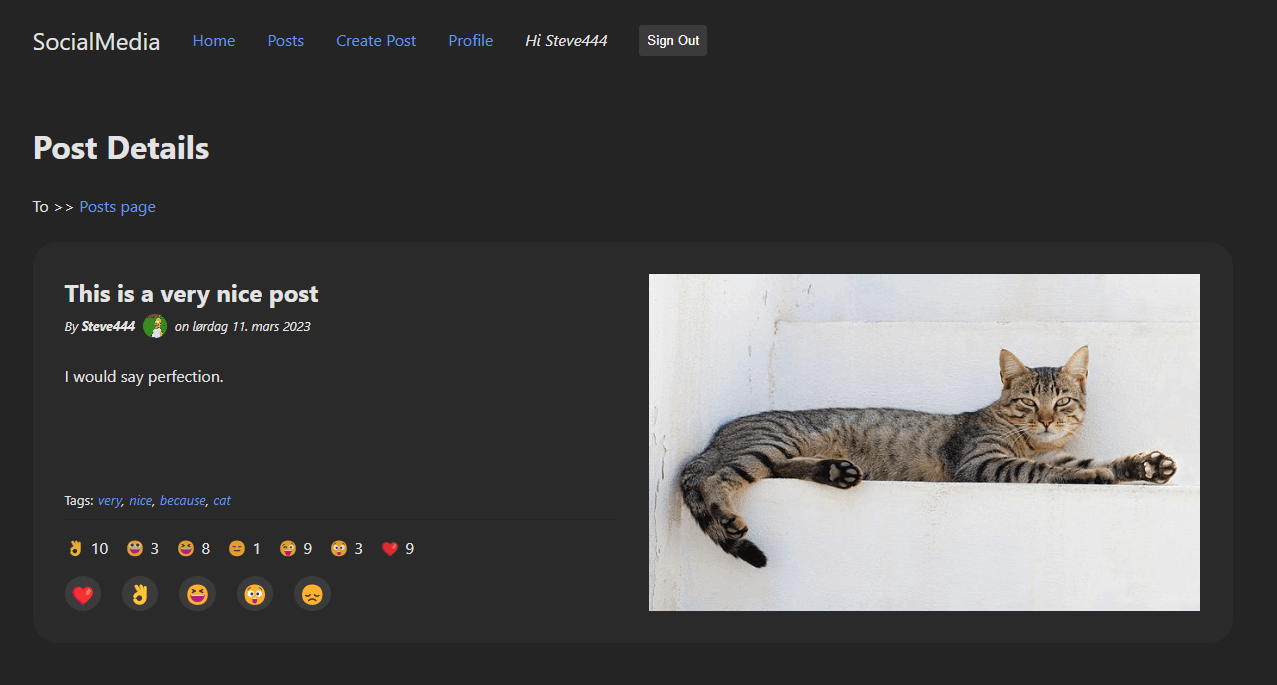
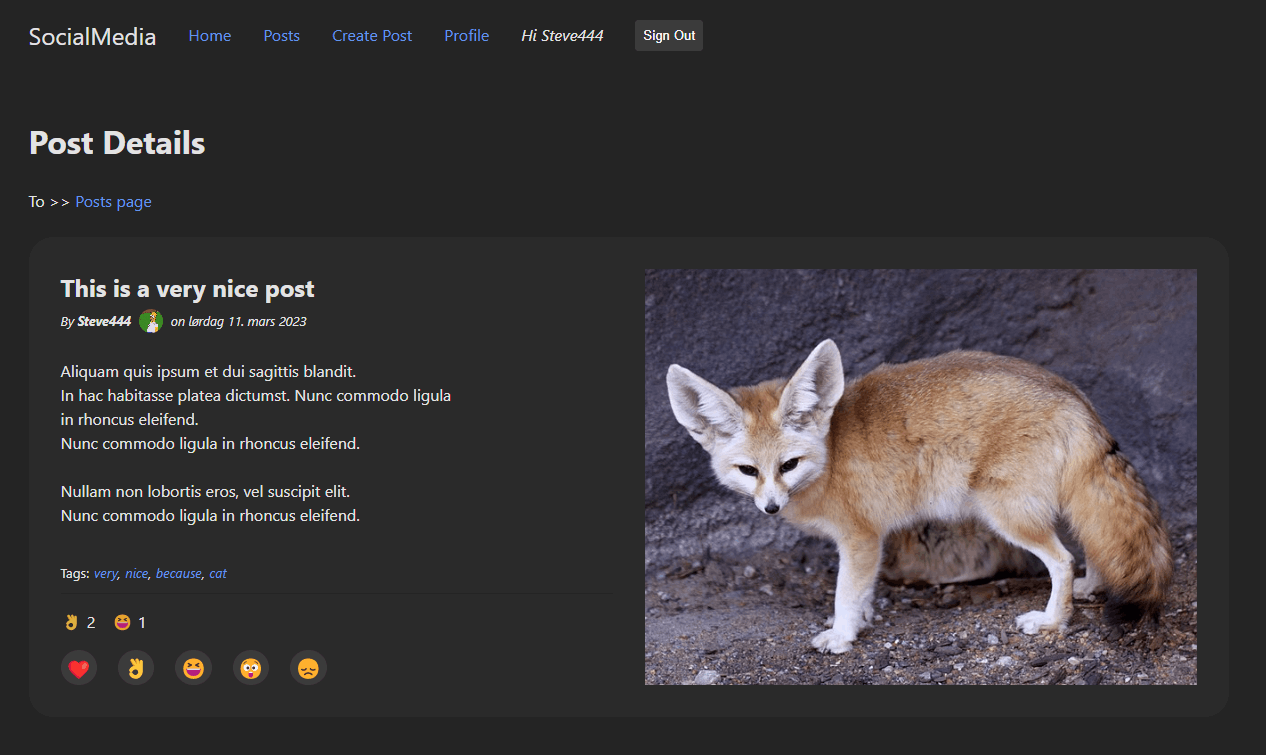
Add better Post details screenshot

diff --git a/src/components/PostDetails.module.scss b/src/components/PostDetails.module.scss
@@ -46,6 +46,8 @@
 
     p {
       margin-bottom: auto;
+      white-space: pre-line;
+      max-width: 400px;
     }
 
     .tags {
